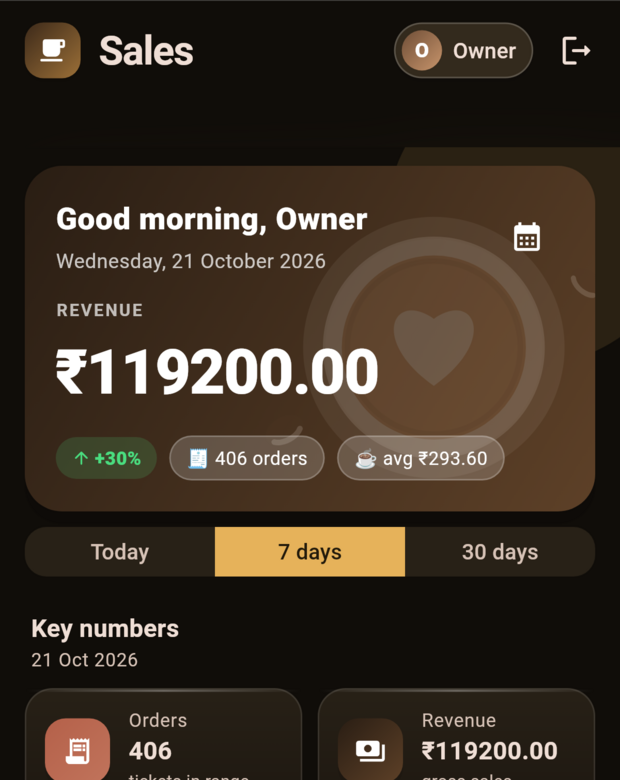
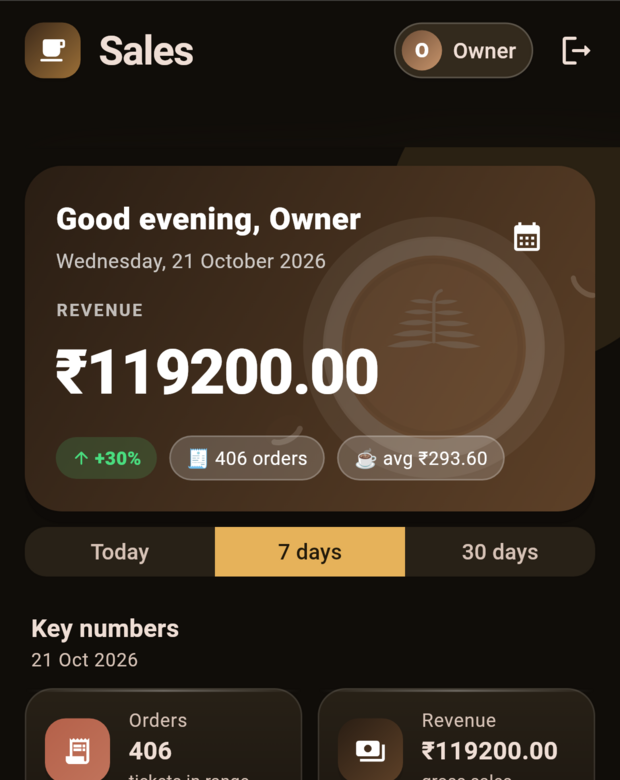
Replace latte-art heart watermark with a rosetta fern
The shared LatteArtPainter drew a plain heart inside the crema, which
read as generic clip-art. Swap it for a proper rosetta — rounded,
overlapping scallop leaves tapering into a curled drag-through stem —
which is the actual craft mark of a specialty café.

The change is contained to the art shape; the cup, saucer, rim, crema
ring and beans are untouched, and the public painter API is unchanged,
so all nine call sites (login, register, menu, cart, checkout, order
status, order lookup, tables grid, printer settings) pick it up with no
edits. Verified at both the 18%-opacity hero watermark and full
strength on the menu banner.

Regenerate the marketing goldens and republish the web screens.

Changed region(s): [[0.2145, 0.2462, 0.5823, 0.3077]]

diff --git a/mobile/lib/widgets/ui_kit.dart b/mobile/lib/widgets/ui_kit.dart
@@ -517,7 +517,11 @@ String dishEmoji(String name, {String category = ''}) {
   return categoryEmoji(category);
 }
 
-/// Top-down latte-art illustration: saucer, cup, crema heart, coffee beans.
+/// Top-down latte-art illustration: saucer, cup, crema, rosetta fern, beans.
+///
+/// The rosetta replaces an earlier plain heart. Both are drawn with the [art]
+/// colour, so call sites that pass a translucent white for a watermark effect
+/// keep working unchanged — only the shape inside the crema changed.
 class LatteArtPainter extends CustomPainter {
   final Color cup;
   final Color crema;
@@ -559,27 +563,64 @@ class LatteArtPainter extends CustomPainter {
       ..strokeWidth = math.max(1.5, radius * 0.06);
     canvas.drawCircle(center, radius * 0.94, ring);
 
-    final heart = Path();
-    final hr = radius * 0.52;
-    final cy = center.dy - hr * 0.25;
-    heart.moveTo(center.dx, cy + hr * 1.05);
-    heart.cubicTo(
-      center.dx - hr * 1.35,
-      cy + hr * 0.1,
-      center.dx - hr * 0.85,
-      cy - hr * 0.95,
-      center.dx,
-      cy - hr * 0.35,
-    );
-    heart.cubicTo(
-      center.dx + hr * 0.85,
-      cy - hr * 0.95,
-      center.dx + hr * 1.35,
-      cy + hr * 0.1,
-      center.dx,
-      cy + hr * 1.05,
-    );
-    canvas.drawPath(heart, Paint()..color = art);
+    // The rosetta — the fern a barista free-pours. Drawn as a spine with
+    // paired leaves that swell then taper, and a drag-through stem that
+    // curls the tip, which is what makes a pour read as a rosetta rather
+    // than a leaf. Subtle enough (used at low opacity) to sit behind the
+    // hero numbers without competing with them, but with more craft than a
+    // plain glyph.
+    final ar = radius * 0.62;
+    final top = center.dy - ar;
+    final artPaint = Paint()..color = art;
+
+    // One leaf: base sits on the spine, tip points outward-and-slightly-down
+    // (a free-poured leaf always droops as the milk runs out). The two sides
+    // bulge by *different* amounts — the upper/outer edge swells more than
+    // the inner one — so each leaf reads as a rounded scallop rather than a
+    // straight-sided spike.
+    void leaf(Offset base, Offset tip, double bulgeOut, double bulgeIn) {
+      final d = tip - base;
+      if (d.distance < 0.5) return;
+      // Perpendicular to the leaf axis, used to push the side curves out.
+      final n = Offset(-d.dy, d.dx) / d.distance;
+      final mid = base + d * 0.5;
+      final p = Path()
+        ..moveTo(base.dx, base.dy)
+        // upper/outer side: big soft swell
+        ..quadraticBezierTo(mid.dx + n.dx * bulgeOut, mid.dy + n.dy * bulgeOut,
+            tip.dx, tip.dy)
+        // inner side: shallower swell back to the base, closing the leaf
+        ..quadraticBezierTo(mid.dx - n.dx * bulgeIn, mid.dy - n.dy * bulgeIn,
+            base.dx, base.dy)
+        ..close();
+      canvas.drawPath(p, artPaint);
+    }
+
+    for (var i = 0; i < 5; i++) {
+      final t = i / 4; // 0 = top (narrowest), 1 = base (widest)
+      final y = top + ar * (0.16 + 0.70 * t);
+      // Leaves grow toward the base and tilt downward as they do.
+      final reach = ar * (0.42 + 0.40 * t);
+      final droop = ar * (0.02 + 0.10 * t);
+      final base = Offset(center.dx, y + ar * 0.05);
+      final tipOut = Offset(center.dx - reach, y + droop);
+      final bulge = ar * (0.085 + 0.05 * t);
+      leaf(base, tipOut, bulge, bulge * 0.72);
+      leaf(base, Offset(center.dx + reach, y + droop), bulge, bulge * 0.72);
+    }
+
+    // Stem: the drag-through that curls the fern's tip. Thin, round-capped.
+    final stem = Paint()
+      ..color = art
+      ..style = PaintingStyle.stroke
+      ..strokeWidth = math.max(2, ar * 0.05)
+      ..strokeCap = StrokeCap.round;
+    final spine = Path()
+      ..moveTo(center.dx, top + ar * 0.90)
+      ..lineTo(center.dx, top + ar * 0.24)
+      ..quadraticBezierTo(
+          center.dx, top + ar * 0.04, center.dx + ar * 0.13, top + ar * 0.0);
+    canvas.drawPath(spine, stem);
 
     if (withBeans) {
       void beanAt(Offset o, double r, double angle) {
